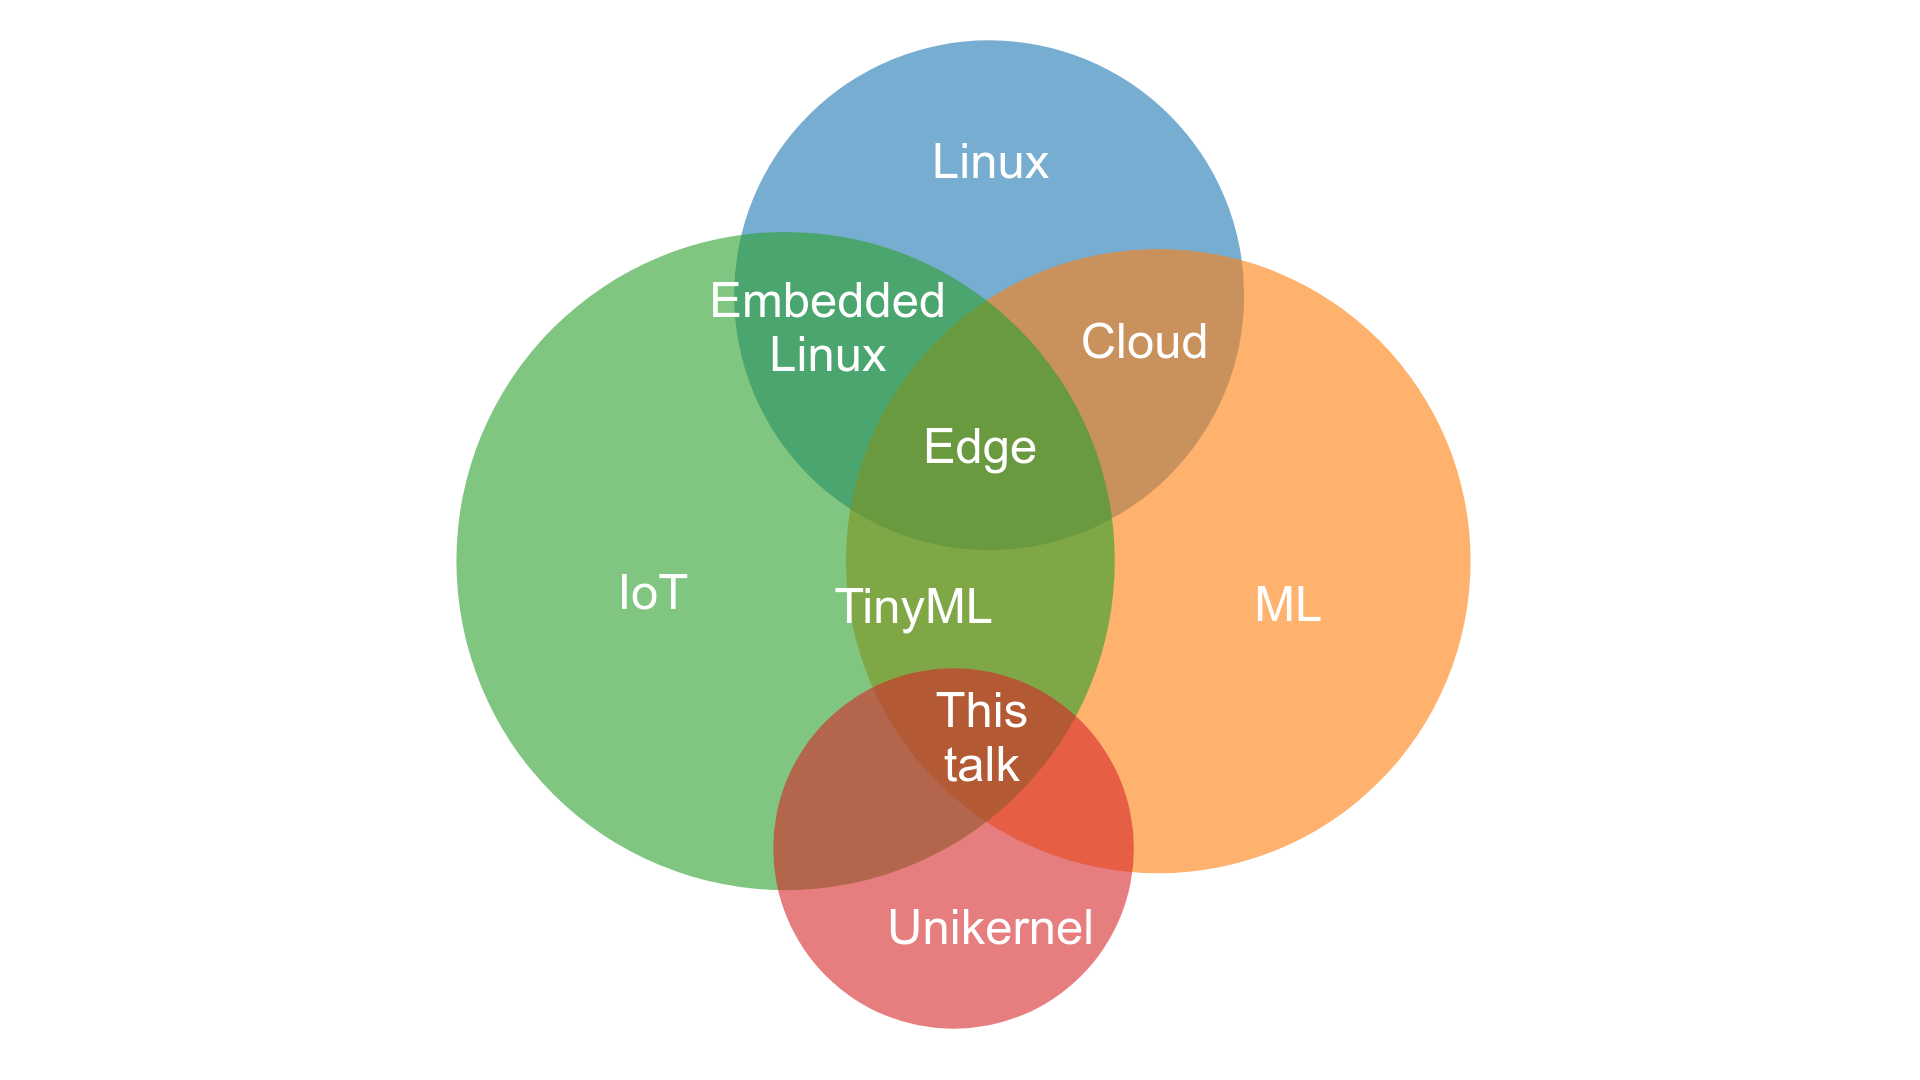
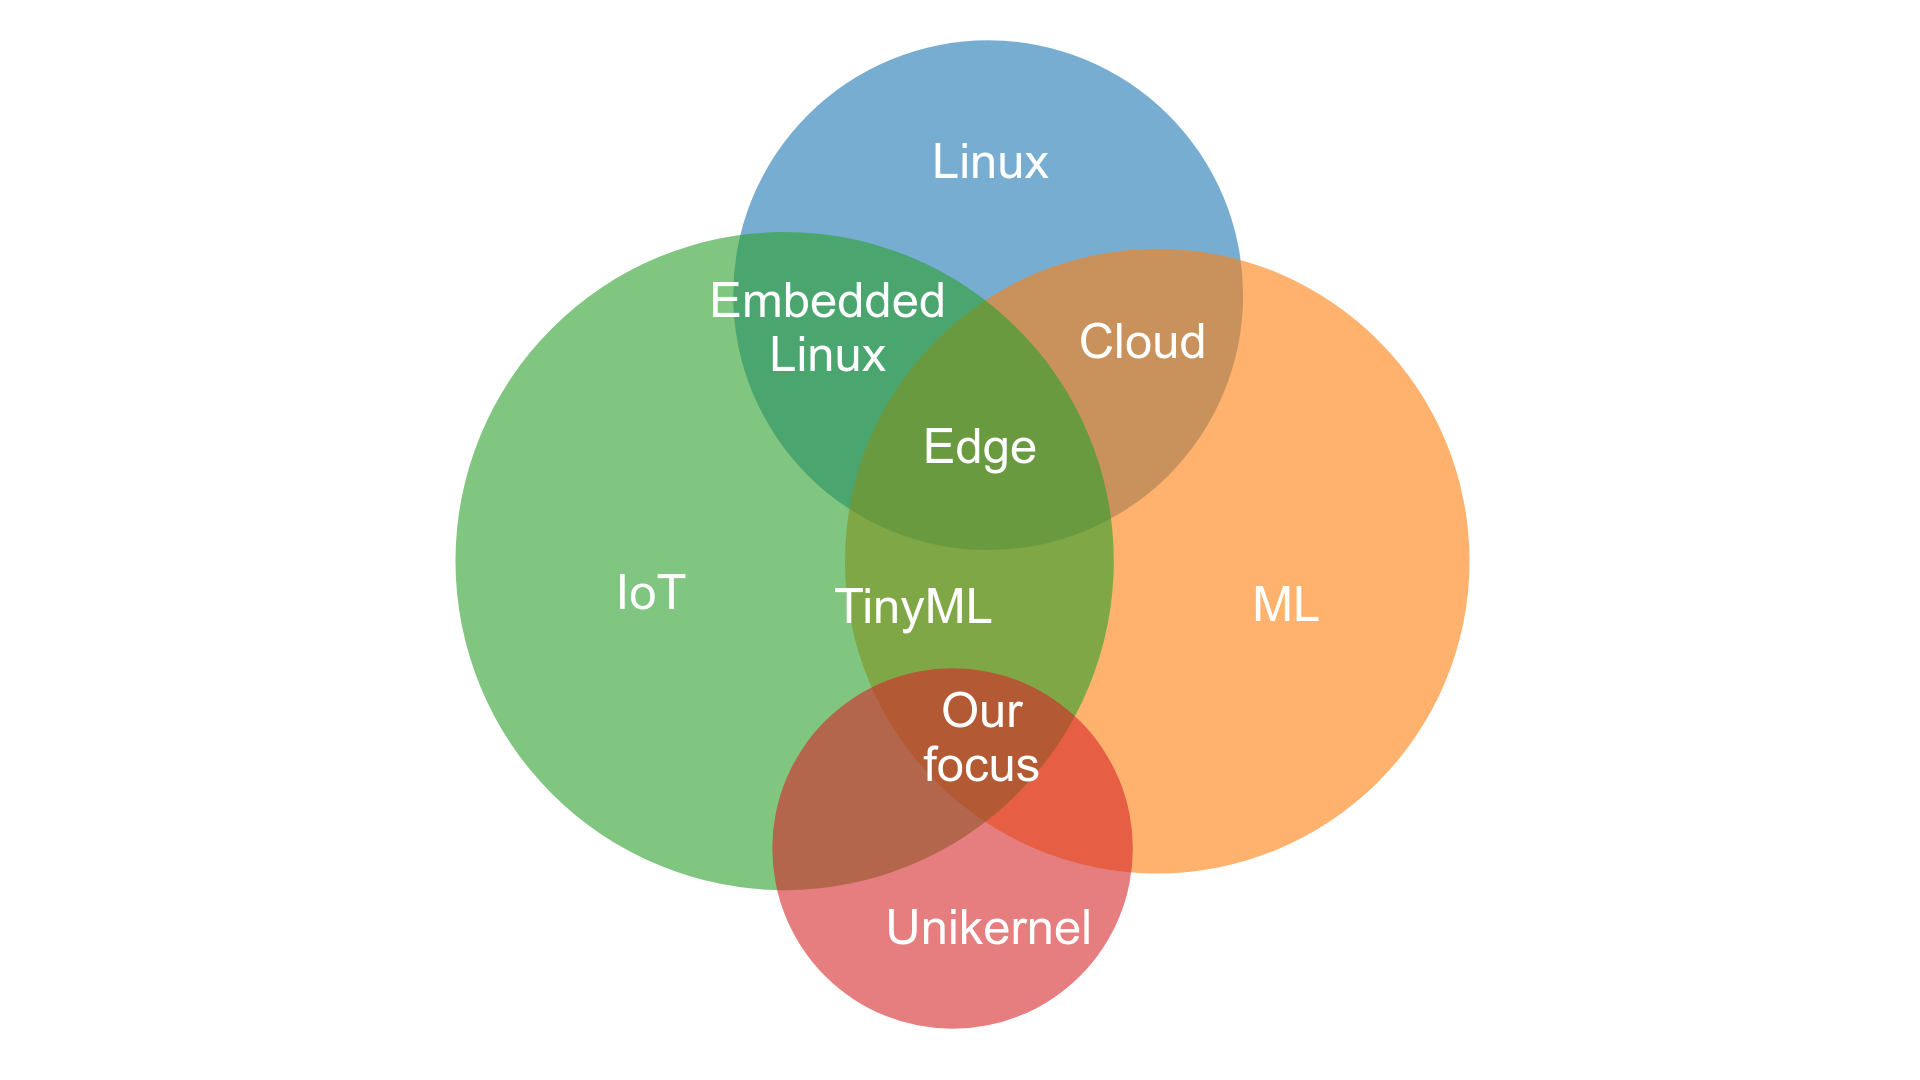
update venn2

diff --git a/index.md b/index.md
@@ -17,7 +17,7 @@ background-image: url(images/venn1.png)
 # TinyML
 ---
 background-image: url(images/venn2.png)
-# This talk
+# Our focus
 ???
 TinyML == ML inference on constrint IoT device
 ---
